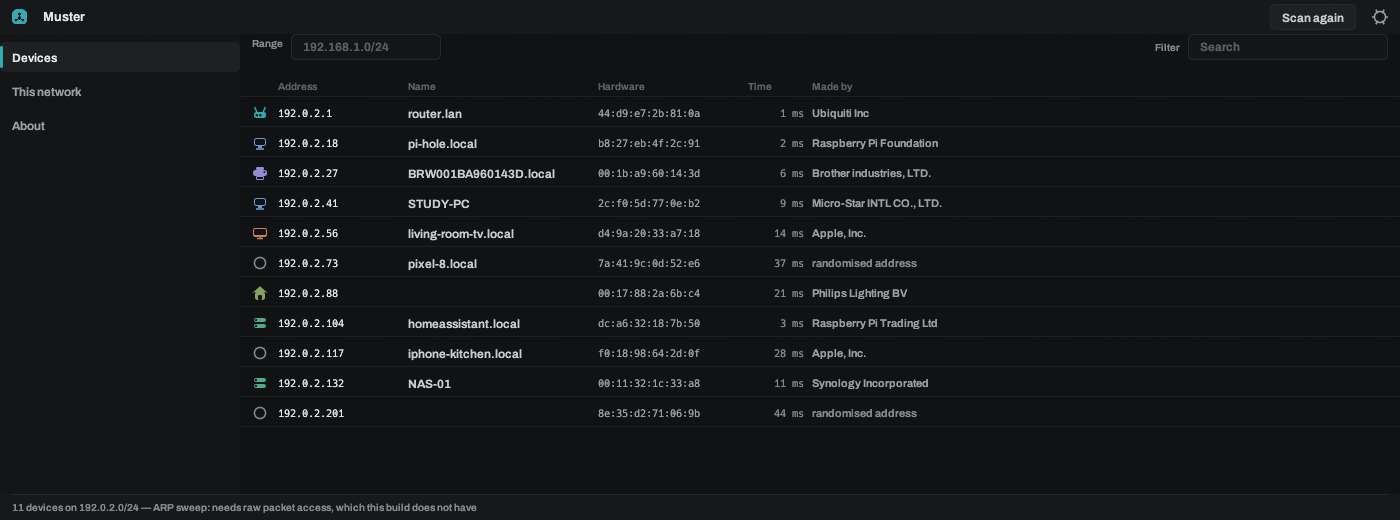
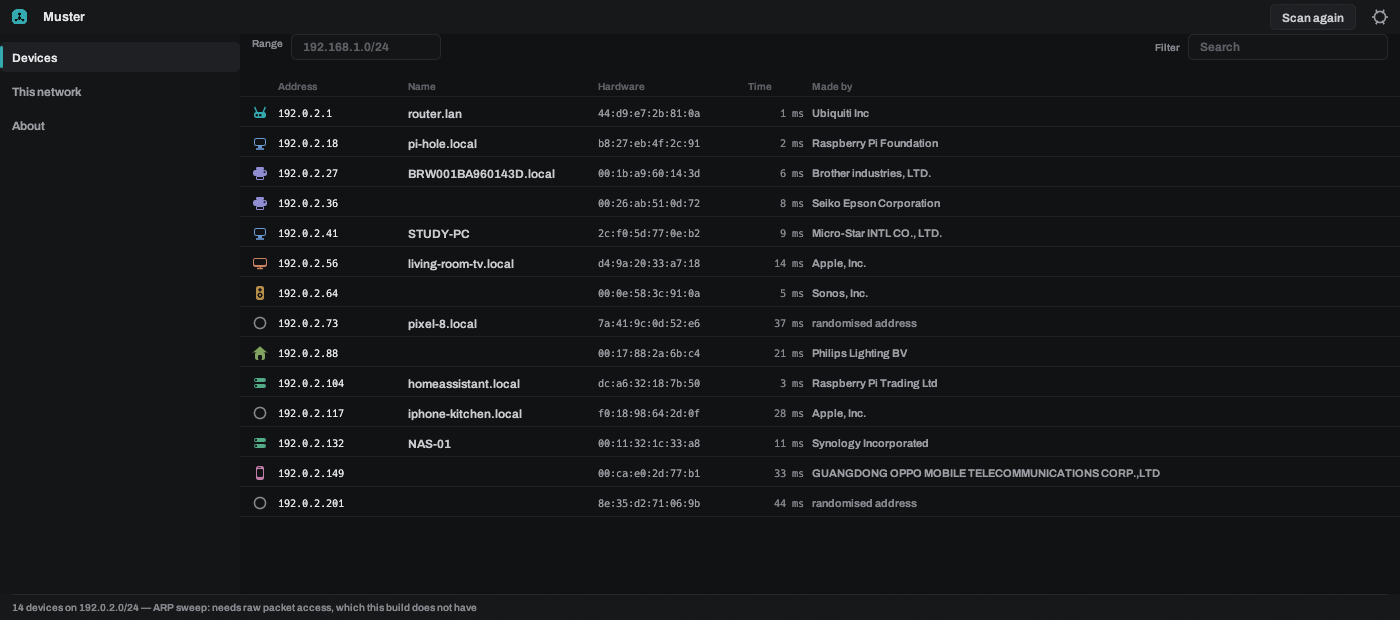
Show the settings and the device window, and put an Epson in the fixture
The README gains the two screens that did not exist when it was written,
and the demonstration network gains the case that was reported: a Seiko
Epson that says nothing about itself and is identified by its hardware
vendor alone. A Sonos and an OPPO handset alongside it, for the same
reason — all three are makers with one product category, which is the whole
test for whether a vendor belongs in that table.

The fixture is sorted by address now, paired first so a device and its name
cannot come apart. The real sweep returns them sorted, and a picture in a
different order from the application is a picture of something else.

Claude-Session: https://claude.ai/code/session_015W5aj4jAkoT1ZcbLEn6tfo

diff --git a/crates/muster-app/examples/docs-images.rs b/crates/muster-app/examples/docs-images.rs
@@ -54,7 +54,7 @@ use std::time::Duration;
 /// the width §17.3 asks a right-aligned picture to sit at.
 const SHOTS: [(&str, View, [f32; 2], Option<u8>); 5] = [
     ("settings.png", View::Devices, [1400.0, 700.0], Some(0)),
-    ("window.png", View::Devices, [1400.0, 520.0], None),
+    ("window.png", View::Devices, [1400.0, 620.0], None),
     // The detail window, opened on the printer: the device with the most to
     // say about itself, so the picture shows the panel doing its job.
     ("device.png", View::Devices, [1400.0, 520.0], Some(27)),
@@ -258,7 +258,7 @@ fn survey() -> Survey {
 
 /// A finished scan of that network.
 ///
-/// Eleven devices, which is an ordinary house, chosen so the table shows what
+/// Fourteen devices, which is an ordinary house, chosen so the table shows what
 /// the table is for: things that name themselves over mDNS, a Windows machine
 /// only NetBIOS answers for, devices that prove they are there by refusing a
 /// connection rather than accepting one, two with no name at all, and a phone
@@ -342,6 +342,31 @@ fn scan() -> Outcome {
             vec![Evidence::Ping],
             44_200,
         ),
+        // An Epson that says nothing about itself. Its vendor is the whole of
+        // the evidence, which is the case the vendor table exists for: Seiko
+        // Epson's networked products are printers, so the address alone is
+        // enough.
+        (
+            36,
+            [0x00, 0x26, 0xab, 0x51, 0x0d, 0x72],
+            vec![Evidence::Ping],
+            8_600,
+        ),
+        // A speaker, likewise identified by a vendor that makes one thing.
+        (
+            64,
+            [0x00, 0x0e, 0x58, 0x3c, 0x91, 0x0a],
+            vec![Evidence::Ping, Evidence::TcpOpen(1400)],
+            5_400,
+        ),
+        // And a handset from a maker that only makes handsets, which is a
+        // whole category the vendor table could not reach before.
+        (
+            149,
+            [0x00, 0xca, 0xe0, 0x2d, 0x77, 0xb1],
+            vec![Evidence::Ping],
+            33_800,
+        ),
     ];
 
     let found: Vec<Found> = devices
@@ -391,7 +416,19 @@ fn scan() -> Outcome {
         named(&[("iphone-kitchen.local", Source::Mdns)], None, &[]),
         named(&[("NAS-01", Source::NetBios)], Some("WORKGROUP"), &[]),
         Identity::default(),
+        // The Epson, the Sonos and the phone each volunteer nothing: their
+        // hardware vendor is the only thing that names them.
+        Identity::default(),
+        Identity::default(),
+        Identity::default(),
     ];
+
+    // Sorted by address, because the real sweep returns them that way and a
+    // picture in a different order from the application is a picture of
+    // something else. Paired first so a device and its name cannot come apart.
+    let mut paired: Vec<(Found, Identity)> = found.into_iter().zip(names).collect();
+    paired.sort_by_key(|(device, _)| device.address);
+    let (found, names): (Vec<Found>, Vec<Identity>) = paired.into_iter().unzip();
 
     Outcome {
         sweep: Sweep {

diff --git a/README.md b/README.md
@@ -85,18 +85,31 @@ those it was.
 is never used as evidence: `HP-Printer` is usually a printer and sometimes
 somebody's desktop, and a name is evidence about whoever set the device up.
 
-## Ports, one device at a time
+## One device, in full
 
-<img src="docs/images/window.png" alt="The device table with a device selected
-and its detail panel open beside it" align="right" width="380">
+<img src="docs/images/device.png" alt="The device window: a printer's kind and
+the reason for it, its address, hardware and vendor, what it advertises, a ping
+button and its open ports" align="right" width="380">
 
-Select a device and a panel opens beside the table: its address, hardware,
-vendor, what it advertises, and a button to scan its ports. Open ports are
-listed with the service usually found on them, which is a convention rather
-than something the device said.
+Click a device and a window opens with everything known about it: what Muster
+thinks it is and why, its address, hardware and vendor, what it advertises, and
+a button to ask it again. Every field has a copy control, because every field
+is something about to be pasted somewhere.
 
-Closed and filtered are counted separately and always. Rolling them together
-into "not open" is the collapse that turns a firewall into a fact.
+Scan its ports from the same window. Open ports are listed with the service
+usually found on them, which is a convention rather than something the device
+said. **Closed and filtered are counted separately and always.** Rolling them
+together into "not open" is the collapse that turns a firewall into a fact.
+
+## Finding things
+
+Devices appear as they answer rather than when the sweep ends, so a large range
+fills as it goes instead of showing nothing for a minute.
+
+The filter matches everything a row shows: address, name, hardware address,
+vendor and kind. Searching `epson`, `printer` or `192.168.1.5` all work. The
+range field takes anything shaped like `10.0.0.0/24`; leave it empty and Muster
+sweeps the network this machine is on and nothing beyond it.
 
 ## A second DHCP server
 
@@ -149,6 +162,19 @@ required, so it works over SSH.
 | `muster scan 10.0.0.0/24` | Sweeps a prefix you name |
 | `muster ports 192.0.2.18` | The ports worth knowing about, on one host |
 | `muster ports 192.0.2.18 1-1024` | A range you name |
+
+## Settings
+
+<img src="docs/images/settings.png" alt="The settings page: theme, interface
+scale and the update switch, with a rail listing General, Scanning and Themes"
+align="right" width="380">
+
+Theme, interface scale, how hard a scan knocks, which ports it tries. Settings
+save as you change them, so there is nothing to confirm and nothing to lose.
+
+Muster reads the same `.umbertheme` files as the rest of the family, so a theme
+made in a sibling application opens here. Put them in the themes folder the
+Themes page names.
 
 ## Conduct
 
